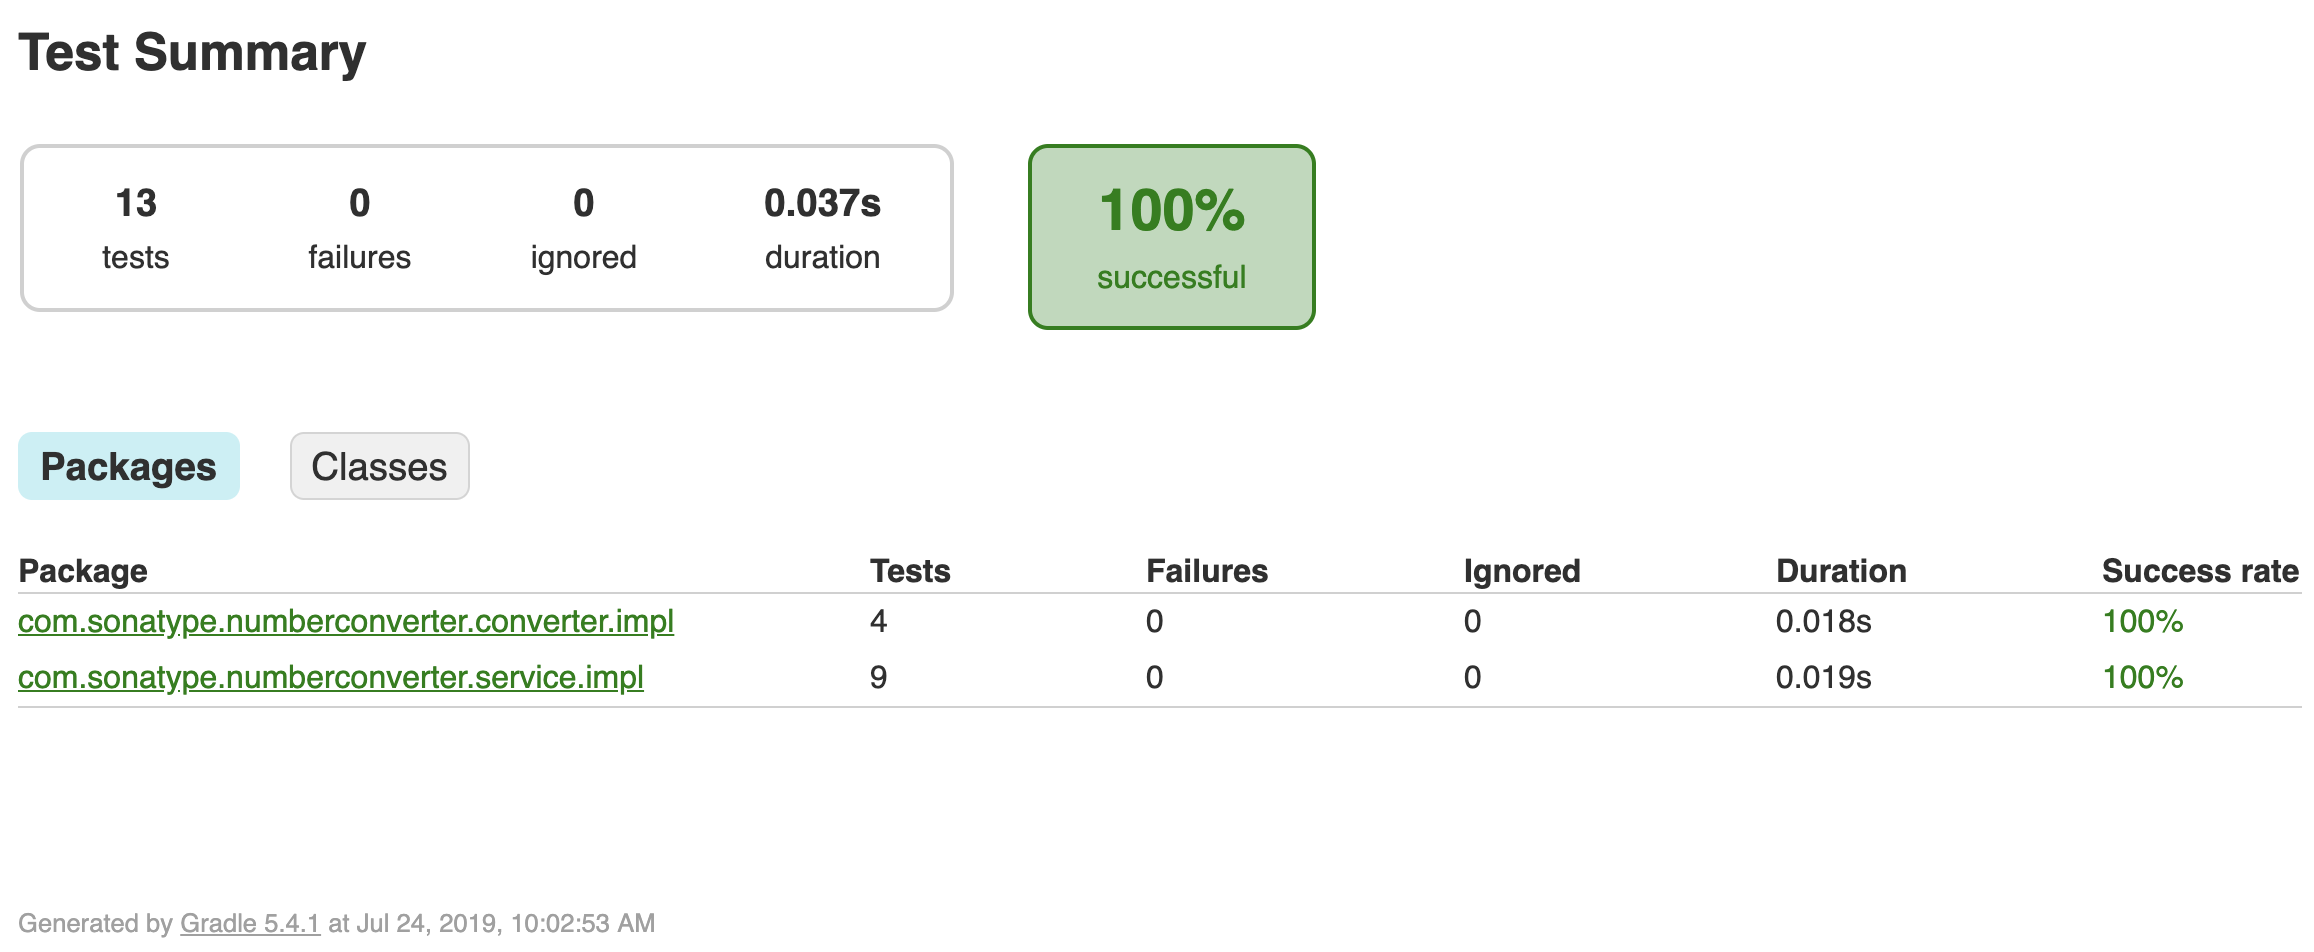
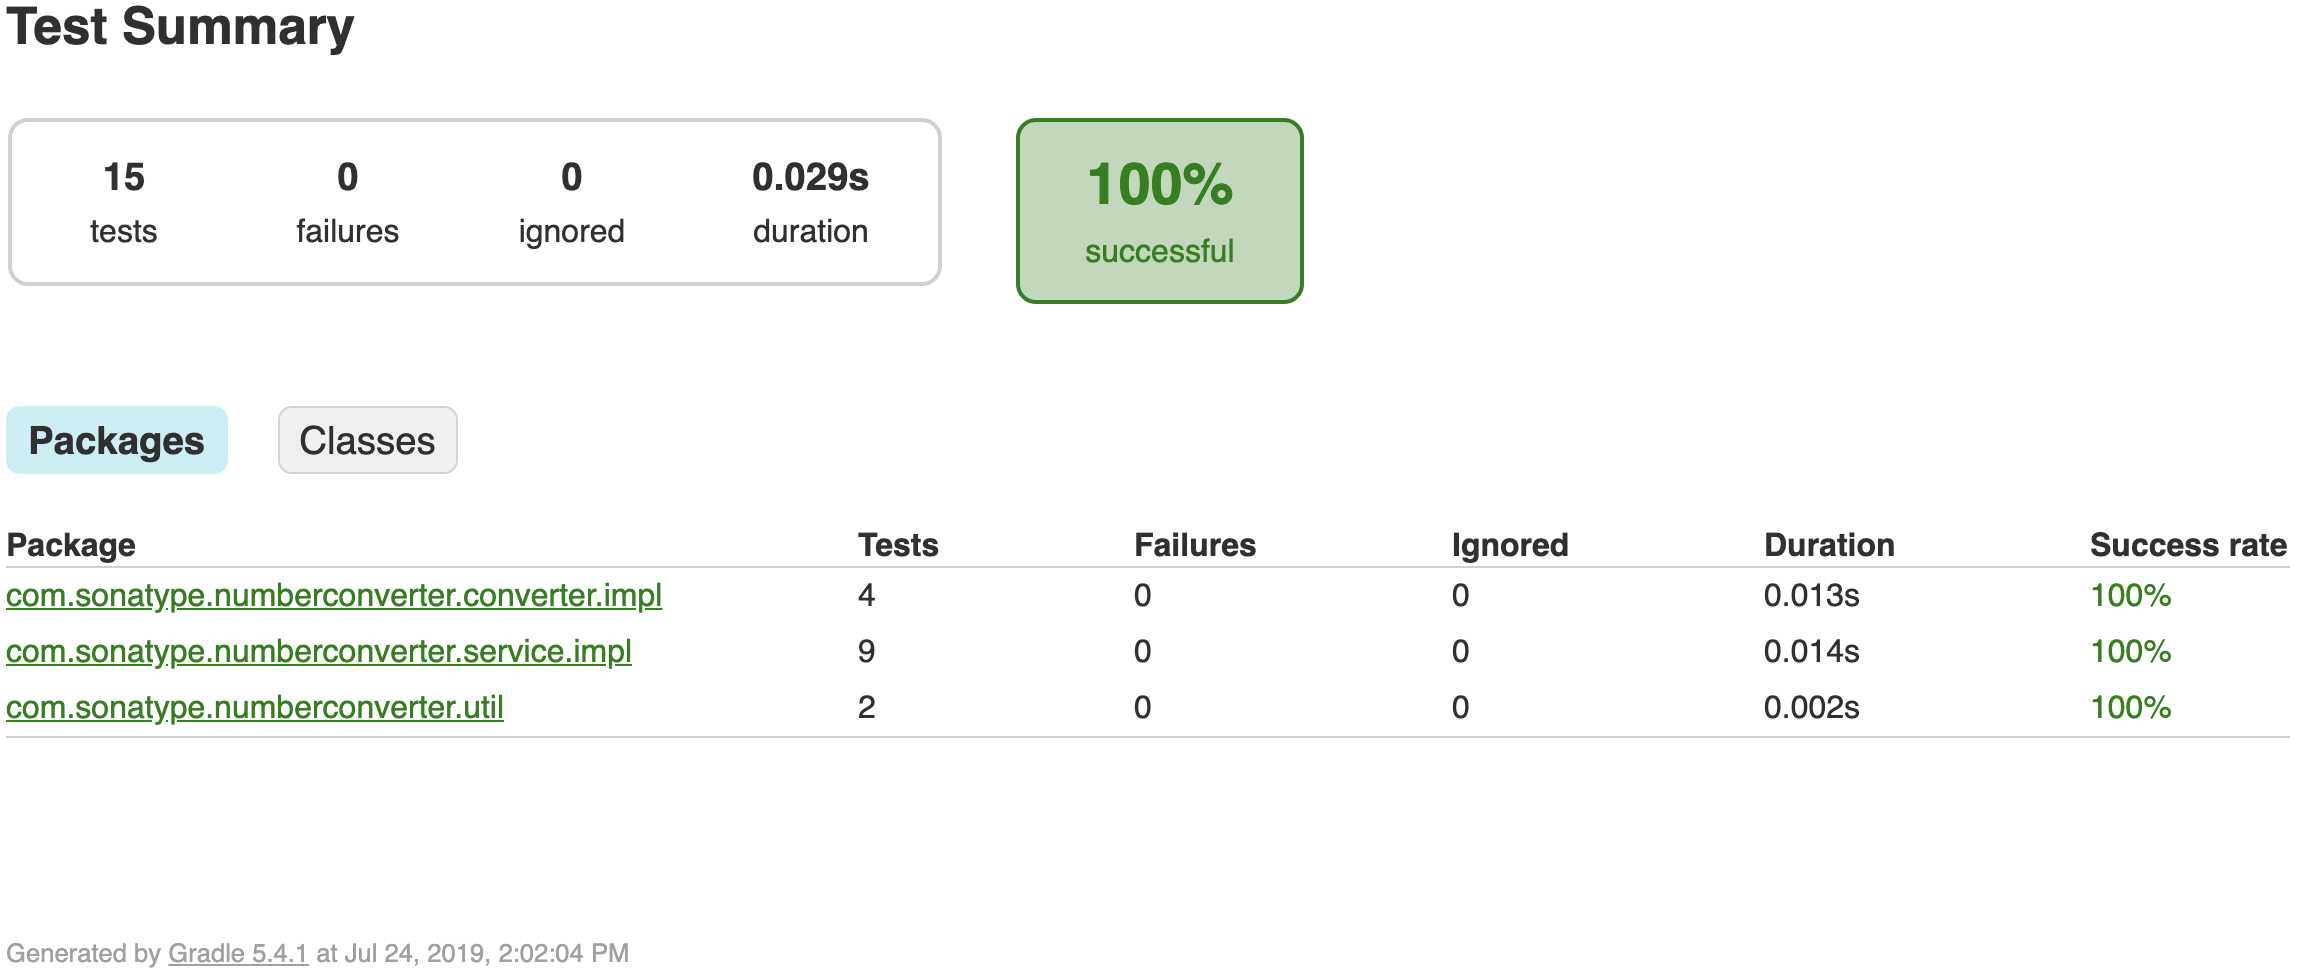
String splitter function moved to its own class

diff --git a/src/main/kotlin/com/sonatype/numberconverter/converter/impl/EnglishNumberConverter.kt b/src/main/kotlin/com/sonatype/numberconverter/converter/impl/EnglishNumberConverter.kt
@@ -1,9 +1,8 @@
 package com.sonatype.numberconverter.converter.impl
 
 import com.sonatype.numberconverter.converter.NumberConverter
+import com.sonatype.numberconverter.util.StringUtils
 import java.util.*
-import kotlin.math.absoluteValue
-import kotlin.math.ceil
 
 /**
  * Singleton english converter to convert numbers to its text equivalent in english
@@ -41,7 +40,7 @@ object EnglishNumberConverter: NumberConverter {
             numberAsString = numberAsString.removePrefix("-")
         }
 
-        val chunkedNumbers = splitInChunks(numberAsString)
+        val chunkedNumbers = StringUtils.splitInChunks(numberAsString)
         val chunksTotalSize = chunkedNumbers.size
 
         for (index in 0 until chunkedNumbers.size) {
@@ -70,44 +69,17 @@ object EnglishNumberConverter: NumberConverter {
 
         val hundred = mutableNumber / 100
         if (hundred > 0) {
-            resultBuilder.add("${numbers[hundred]}")
+            resultBuilder.add(numbers[hundred])
             resultBuilder.add("hundred")
         }
         mutableNumber %= 100
         if (mutableNumber < 20) {
-            resultBuilder.add("${numbers[mutableNumber]}")
+            resultBuilder.add(numbers[mutableNumber])
         } else {
             val tens = mutableNumber / 10
-            resultBuilder.add("${numbers[tens * 10]}")
-            resultBuilder.add("${numbers[mutableNumber % 10]}")
+            resultBuilder.add(numbers[tens * 10])
+            resultBuilder.add(numbers[mutableNumber % 10])
         }
         return resultBuilder.toString()
-    }
-
-    /**
-     * Splits the string into chunks of size 3
-     *
-     * @param string The string to be divided
-     * @return A stack with the chunks
-     */
-    private fun splitInChunks(string: String): Deque<String> {
-        val chunks = ArrayDeque<String>()
-
-        if(string.length < 3) {
-            chunks.push(string)
-            return chunks
-        }
-
-        val numberOfChunks = ceil(string.length / 3.0).toInt()
-        var min = string.length - 3
-        var max = string.length
-
-        for (i in 0 until numberOfChunks) {
-            chunks.push(string.substring(min, max))
-            max = min
-            min = if(min < 3) 0 else min - 3
-        }
-
-        return chunks
     }
 }

diff --git a/src/main/kotlin/com/sonatype/numberconverter/util/StringUtils.kt b/src/main/kotlin/com/sonatype/numberconverter/util/StringUtils.kt
@@ -1,0 +1,37 @@
+package com.sonatype.numberconverter.util
+
+import java.util.*
+import kotlin.math.ceil
+
+/**
+ * String utilities to work with strings
+ */
+object StringUtils {
+
+    /**
+     * Splits the string into chunks of size 3
+     *
+     * @param string The string to be divided
+     * @return A stack with the chunks
+     */
+    fun splitInChunks(string: String): Deque<String> {
+        val chunks = ArrayDeque<String>()
+
+        if(string.length < 3) {
+            chunks.push(string)
+            return chunks
+        }
+
+        val numberOfChunks = ceil(string.length / 3.0).toInt()
+        var min = string.length - 3
+        var max = string.length
+
+        for (i in 0 until numberOfChunks) {
+            chunks.push(string.substring(min, max))
+            max = min
+            min = if(min < 3) 0 else min - 3
+        }
+
+        return chunks
+    }
+}

diff --git a/src/test/kotlin/com/sonatype/numberconverter/util/StringUtilsTest.kt b/src/test/kotlin/com/sonatype/numberconverter/util/StringUtilsTest.kt
@@ -1,0 +1,26 @@
+package com.sonatype.numberconverter.util
+
+import org.junit.jupiter.api.Assertions
+import org.junit.jupiter.api.Test
+
+class StringUtilsTest {
+
+    @Test
+    fun `A string is successfully chunked into pieces of 3` () {
+        val string = "ThisIsaStringWithThirtyEightCharacters"
+        val stringInChunks = StringUtils.splitInChunks(string)
+
+        Assertions.assertEquals(13, stringInChunks.size)
+        Assertions.assertEquals(stringInChunks.first, "Th")
+        Assertions.assertEquals(stringInChunks.last, "ers")
+        Assertions.assertEquals(string, stringInChunks.reduce { acc, s -> acc + s })
+    }
+
+    @Test
+    fun `A string smaller than size 3 is not chunked` () {
+        val string = "hey"
+        val stringInChunks = StringUtils.splitInChunks(string)
+
+        Assertions.assertEquals(string, stringInChunks.pop())
+    }
+}
